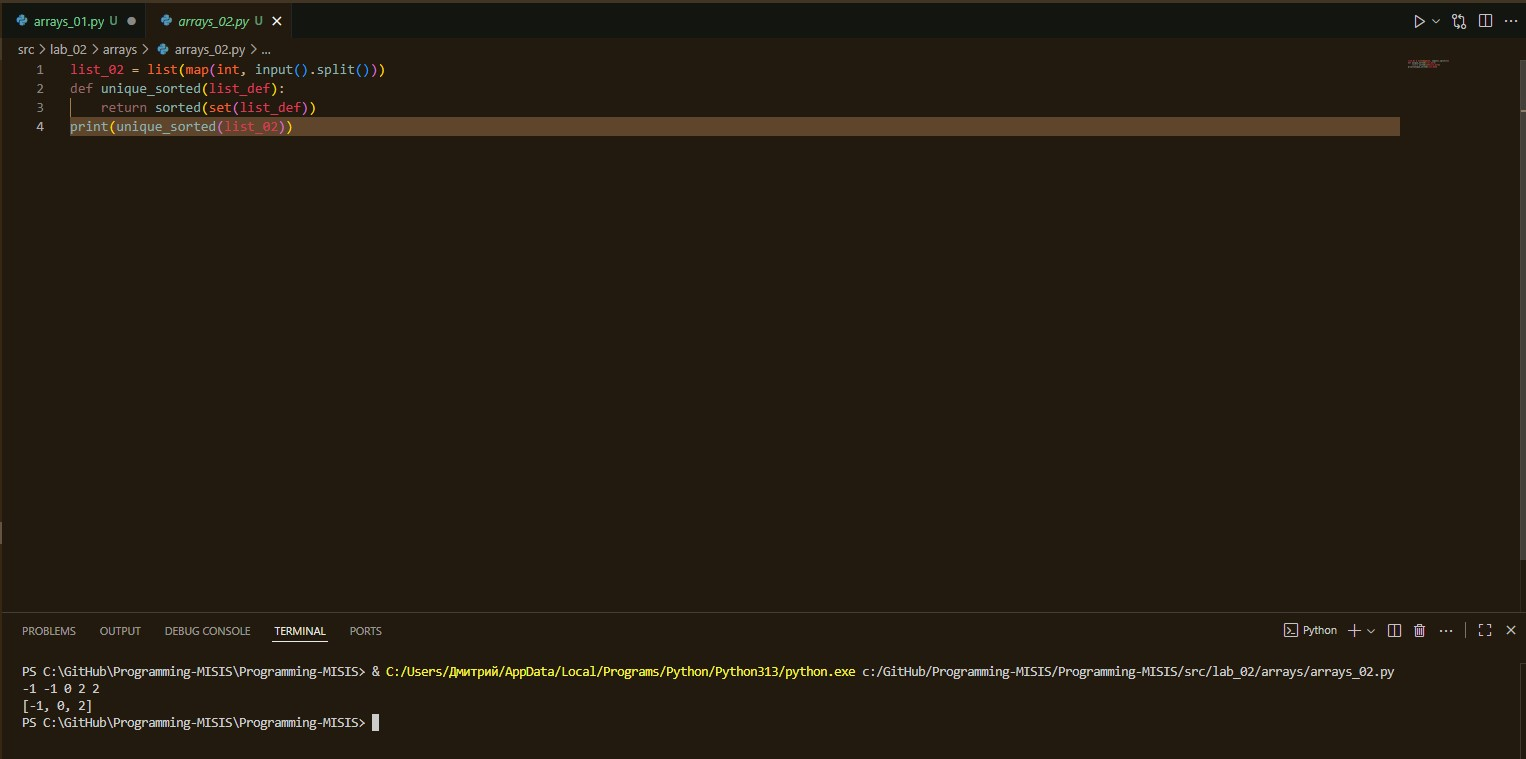
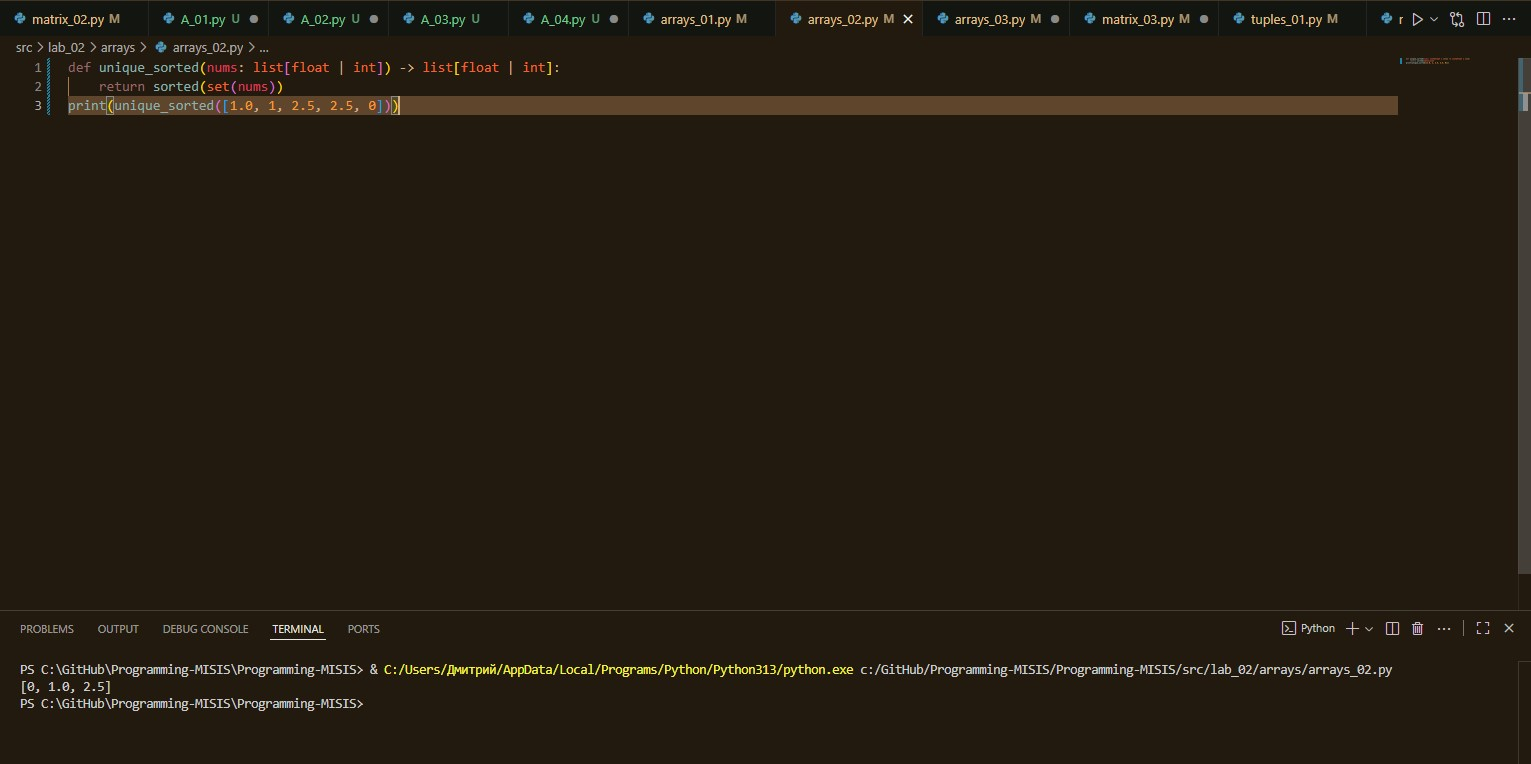
14
fix

diff --git a/src/lab_02/matrix/matrix_03.py b/src/lab_02/matrix/matrix_03.py
@@ -1,19 +1,20 @@
-matrix = [
-    [1,2,3,4,5],
-    [4,5,6,7,8]
-]
-rows, columns = len(matrix), len(matrix[0])
-def transpose(matrix):
-    newmatrix = [[0] * rows for el in range(columns)]
-    for r in range(rows):
-        for c in range(columns):
-            newmatrix[c][r] = matrix[r][c]
-    return newmatrix
-new_matrix = transpose(matrix)
-def column_sums(new_matrix, columns, rows):
-    if columns != rows:
-        result = []
-        for el in range(columns):
-            result.append(sum(new_matrix[el]))
-    return result
-print(column_sums(new_matrix, columns, rows))
+def col_sums(mat: list[list[float | int]]) -> list[float]:
+    rows, columns = len(mat), len(mat[0])
+    sum_of_columns = []
+    for index in range(len(mat)):
+        if len(mat[index-1]) != len(mat[index]):
+            return ValueError
+    if rows == columns:
+        return "Матрица является квадратной, требуется прямоугольность (по усл.)"
+    def transpose(mat: list[list[float | int]], rows: int, columns: int) -> list[float]:
+        if len(mat) == 0:
+            return mat
+        sample_of_matrix = [[0] * rows for el in range(columns)]
+        for r in range(rows):
+            for c in range(columns):
+                sample_of_matrix[c][r] = mat[r][c]
+        return sample_of_matrix
+    for el in transpose(mat, rows, columns):
+        sum_of_columns.append(sum(el))
+    return sum_of_columns
+print(col_sums([[1,2,3,4,5],[4,5,6,7,8]]))

diff --git a/src/lab_02/tuples/tuples_01.py b/src/lab_02/tuples/tuples_01.py
@@ -1,16 +1,14 @@
-notes = tuple([input().strip(), input().strip(), float(input())])
-print(notes)
-def format_record(notes):
+def format_record(rec: tuple[str, str, float]) -> str:
     initials = ''
-    fio, group, gpa = notes[0].strip().split() , notes[1].strip(), notes[2]
-    if len(fio) < 2 or len(fio) > 3:
-        return TypeError
-    if len(group) == 0:
+    fio, group, gpa = rec[0].strip().split(), rec[1], rec[2]
+    if len(fio) > 3 or len(fio) < 2:
         return ValueError
-    for el in range(len(fio)):
-        if fio[el][0].isupper() == False:
-            fio[el] = fio[el].capitalize()
-    for el3 in range(1, len(fio)):
-        initials += fio[el3][0] + "."
-    return f"{fio[0]} {initials}, гр. {group}, GPA {gpa:.2f}"
-print(format_record(notes))
+    if not isinstance(gpa, float):
+        return TypeError
+    for index_01 in range(len(fio)):
+        fio[index_01] = fio[index_01].capitalize()
+        for el in fio[index_01]:
+            if el.isupper():
+                initials += el + "."
+    return f"{fio[0]} {initials[2:]}, гр. {group}, GPA {gpa:.2f}"
+print(format_record(("     сидорова   анна   сергеевна    ", "BIVT-25", 4.6)))

diff --git a/src/lab_02/matrix/matrix_01.py b/src/lab_02/matrix/matrix_01.py
@@ -1,19 +1,13 @@
-matrix = [
-    [1,2,3],
-    [4,5,6],
-    [3]
-]
-rows, columns = len(matrix), len(matrix[0])
-def transpose(matrix, rows, columns):
-    newmatrix = [[0] * rows for el in range(columns)]
-    if len(matrix) == 0:
-        return matrix
-    for el in range(len(matrix)):
-        if len(matrix[el-1]) != len(matrix[el]):
+def transpose(mat: list[list[float | int]]) -> list[list]:
+    rows, columns = len(mat), len(mat[0])
+    clear_matrix = [[0] * rows for el in range(columns)]
+    if len(mat) == 0:
+        return mat
+    for el in range(len(mat)):
+        if len(mat[el-1]) != len(mat[el]):
             return ValueError
-    else:
-        for r in range(rows):
-            for c in range(columns):
-                newmatrix[c][r] = matrix[r][c]
-    return newmatrix
-print(transpose(matrix, rows, columns))
+    for r in range(rows):
+        for c in range(columns):
+            clear_matrix[c][r] = mat[r][c]
+    return clear_matrix
+print(transpose([[1, 2], [3, 4]]))

diff --git a/src/lab_02/matrix/matrix_02.py b/src/lab_02/matrix/matrix_02.py
@@ -1,12 +1,12 @@
-matrix = [
-    [1,2,3,4],
-    [3],
-]
-rows, columns = len(matrix), len(matrix[0])
-def row_sums(matrix, rows, columns):
-    if rows != columns:
-        result = []
-        for el in range(rows):
-            result.append(sum(matrix[el]))
-        return result
-print(row_sums(matrix, rows, columns))
+def row_sums(mat: list[list[float | int]]) -> list[float]:
+    rows, columns = len(mat), len(mat[0])
+    sum_of_rows = []
+    for index in range(len(mat)):
+        if len(mat[index-1]) != len(mat[index]):
+            return ValueError
+    if rows == columns:
+        return "Матрица является квадратной, требуется прямоугольность (по усл.)"
+    for index in range(len(mat)):
+        sum_of_rows.append(sum(mat[index]))    
+    return sum_of_rows
+print(row_sums([[1, 2, 3], [4, 5, 6]]))

diff --git a/src/lab_02/arrays/arrays_03.py b/src/lab_02/arrays/arrays_03.py
@@ -1,11 +1,8 @@
-list_03 = [[1,2], (3,4), [5,6], (7,8)]
-def flatten(list_def):
-    empty = []
-    for el in list_def:
-        if isinstance(el, (list, tuple)) == False:
+def flatten(mat: list[list | tuple]) -> list:
+    flatten_mat = []
+    for el in mat:
+        if not isinstance(el, (list, tuple)):
             return TypeError
-        else:
-            empty += el
-    return empty
-print(flatten(list_03))
-            
+        flatten_mat += el
+    return flatten_mat
+print(flatten([[1, 2], (3, 4, 5)]))

diff --git a/src/lab_02/arrays/arrays_01.py b/src/lab_02/arrays/arrays_01.py
@@ -1,6 +1,3 @@
-list_01 = list(map(int, input().split()))
-def min_max(list_def):
-    if len(list_def) == 0:
-        return ValueError
-    return min(list_def), max(list_def) 
-print(min_max(list_01))
+def min_max(nums: list[float | int]) -> tuple[float | int, float | int]:
+    return min(nums), max(nums)
+print(min_max([1.5, 2, 2.0, -3.1]))

diff --git a/src/lab_02/arrays/arrays_02.py b/src/lab_02/arrays/arrays_02.py
@@ -1,4 +1,3 @@
-list_02 = list(map(int, input().split()))
-def unique_sorted(list_def):
-    return sorted(set(list_def))
-print(unique_sorted(list_02))
+def unique_sorted(nums: list[float | int]) -> list[float | int]:
+    return sorted(set(nums))
+print(unique_sorted([1.0, 1, 2.5, 2.5, 0]))
